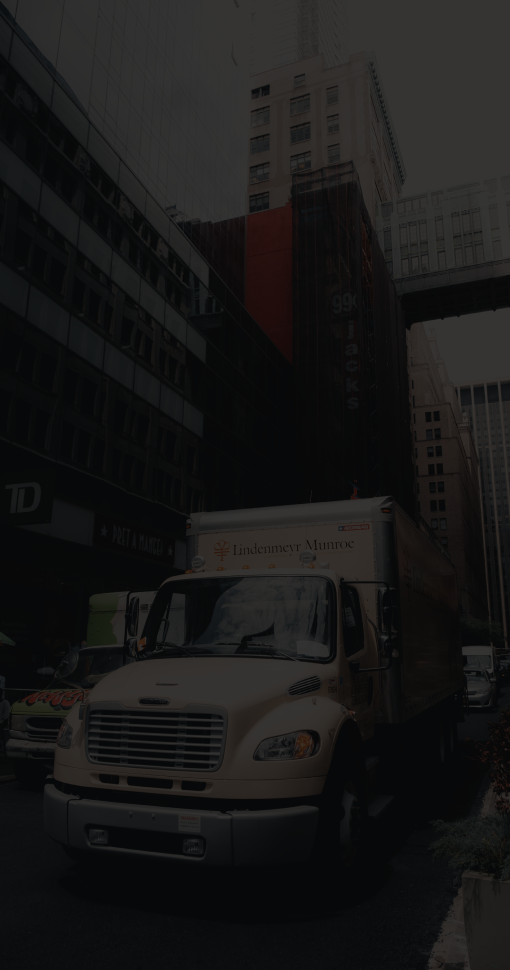
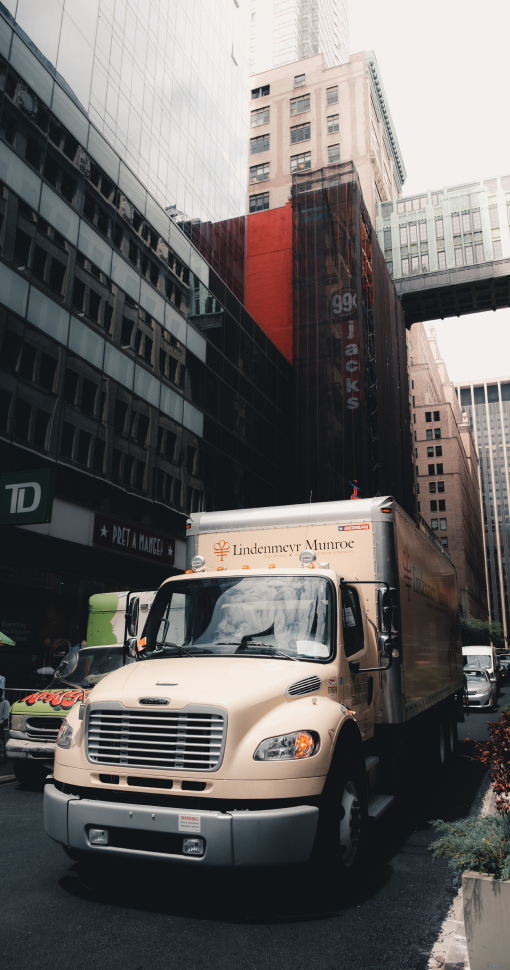
fix: portfolio

diff --git a/src/scss/components/blocks/portfolio.scss b/src/scss/components/blocks/portfolio.scss
@@ -35,6 +35,28 @@
     @include media-mx(500) {
       width: 100%;
     }
+
+    &::before {
+      content: "";
+      opacity: 0.8;
+      background: #050505;
+      width: 100%;
+      height: 100%;
+      position: absolute;
+      transition: all 0.5s;
+      pointer-events: none;
+      left: 0;
+      right: 0;
+      top: 0;
+      bottom: 0;
+    }
+
+    &:hover {
+      &::before {
+        opacity: 0.5;
+      }
+
+    }
   }
 
   &__box-img {
@@ -48,6 +70,8 @@
     right: 0;
     top: 0;
     bottom: 0;
+
+
   }
 
   &__box-text {
